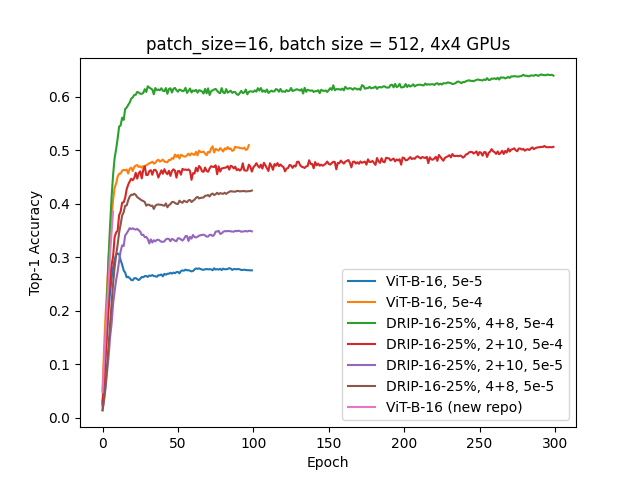
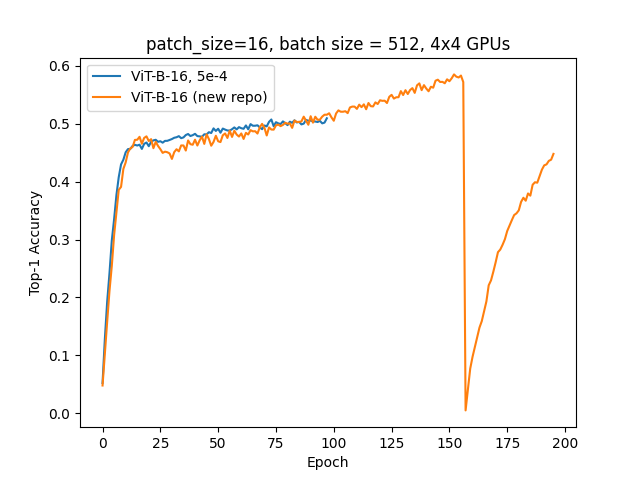
imagenet callapses even with torch official training code

diff --git a/src/CLIP_acc_vis.py b/src/CLIP_acc_vis.py
@@ -34,7 +34,7 @@ def plot_acc_vis(model2acc: Dict, patch_size: int) -> None:
         plt.plot(accs, label=model)
     plt.xlabel("Epoch")
     plt.ylabel("Top-1 Accuracy")
-    plt.title(f"26M samples, patch_size={patch_size}, lr=5e-5, after 10 epochs")
+    plt.title(f"26M samples, patch_size={patch_size}, lr=5e-5, after 15 epochs")
     plt.legend()
     plt.savefig(f"NEW_acc_vis_{patch_size}.png")
 
@@ -70,10 +70,11 @@ def main():
         #     "S-DRIP-16-20%-30%, 2+10": 'Aug6_S-DRIP.log',
         # }
         model2path = {
-            'ViT-B-16': 'Aug13_ViT16.log',
-            "DRIP-16-25%, 2+10": 'Aug13_DRIP_2_10.log',
-            "DRIP-16-25%, 4+8": 'Aug13_DRIP_4_8.log',
-            "DRIP-16-25%, 4+8, no null token": 'new_downsample.log'
+            'ViT-B-16': 'AUG_20_VIT_15_epochs.log',
+            "DRIP-16-25%, 2+10": 'AUG_20_4x_2_10_15_epochs.log',
+            "DRIP-16-25%, 4+8": 'AUG_20_4x_4_8_15_epochs.log',
+            "DRIP-16-10%, 4+8": 'AUG_20_10x_4_8_15_epochs.log',
+            "DRIP-16-10%, 5+7": 'AUG_20_10x_5_7_15_epochs.log',
         }
 
 

diff --git a/src/ImageNet_acc_vis.py b/src/ImageNet_acc_vis.py
@@ -59,13 +59,13 @@ def main():
     #     "DRIP-16-25%, 4+8": 'ImageNet_DRIP_4_8.txt'
     # }
     model2path = {
-        'ViT-B-16, 5e-5': 'ImageNet_ViT16.txt',
+        #'ViT-B-16, 5e-5': 'ImageNet_ViT16.txt',
         'ViT-B-16, 5e-4': 'less_aggressive_ViT.txt',
         #'ViT-B-16, 3e-3': 'faithful_ImageNet_ViT16.txt',
-        'DRIP-16-25%, 4+8, 5e-4': 'less_aggressive_DRIP_4_8.txt',
-        'DRIP-16-25%, 2+10, 5e-4': 'less_aggressive_DRIP_2_10.txt',
-        "DRIP-16-25%, 2+10, 5e-5": 'ImageNet_DRIP_2_10.txt',
-        "DRIP-16-25%, 4+8, 5e-5": 'ImageNet_DRIP_4_8.txt',
+        #'DRIP-16-25%, 4+8, 5e-4': 'less_aggressive_DRIP_4_8.txt',
+        #'DRIP-16-25%, 2+10, 5e-4': 'less_aggressive_DRIP_2_10.txt',
+        #"DRIP-16-25%, 2+10, 5e-5": 'ImageNet_DRIP_2_10.txt',
+        #"DRIP-16-25%, 4+8, 5e-5": 'ImageNet_DRIP_4_8.txt',
         'ViT-B-16 (new repo)': 'AUG_20_new_imagenet_codebase.txt',
     }
 
